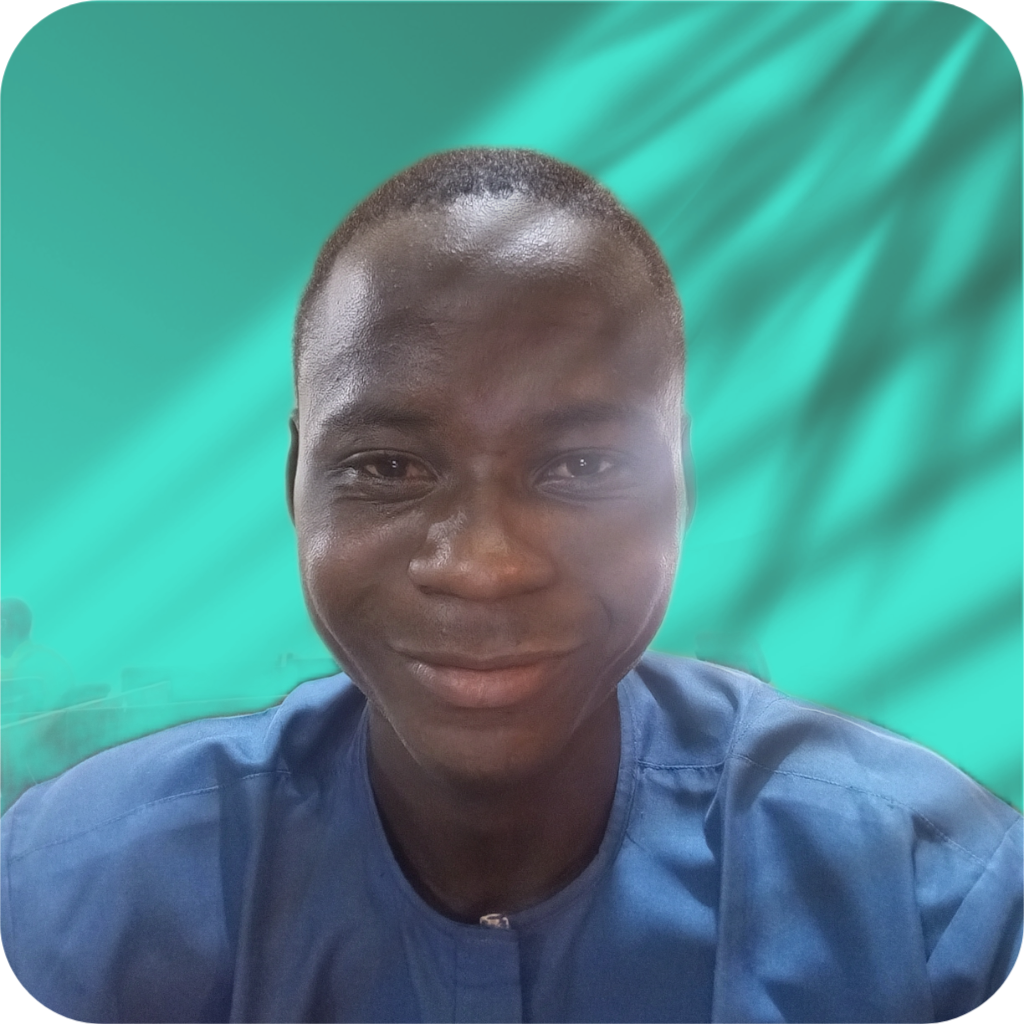
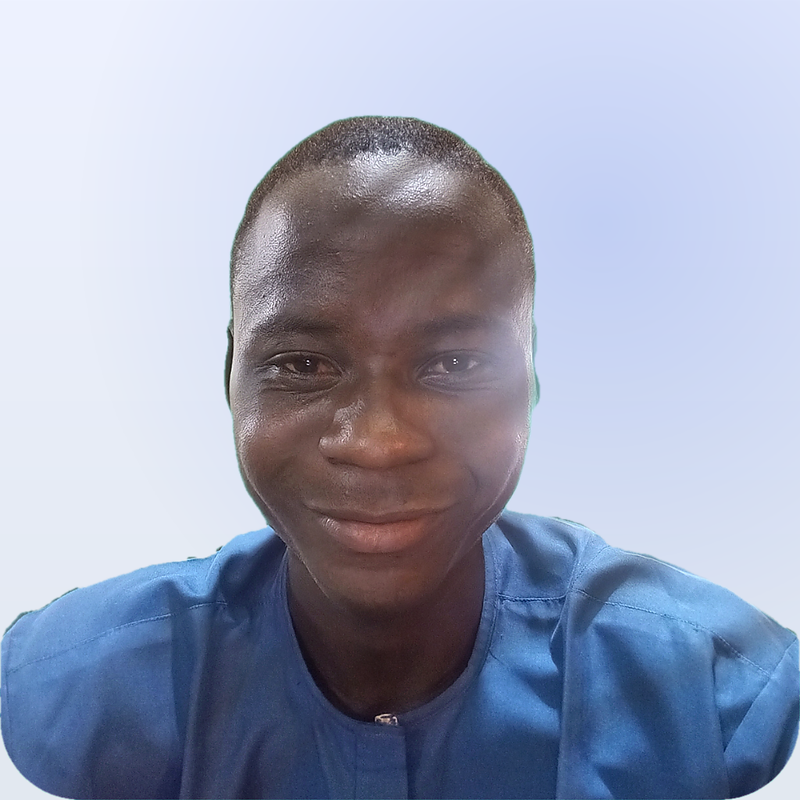
updating propile ficture

diff --git a/src/components/hero-section.tsx b/src/components/hero-section.tsx
@@ -102,16 +102,27 @@ export function HeroSection() {
           className="relative flex min-w-0 justify-center lg:justify-end"
         >
           <div className="relative">
-            <div className="absolute -inset-4 rounded-2xl bg-gradient-to-br from-primary/20 to-ember/20 blur-2xl" />
-            <div className="relative aspect-square w-72 overflow-hidden rounded-2xl border border-border bg-surface shadow-2xl md:w-80 lg:w-96">
-              <img
-                src="/images/profile-pic.png"
-                alt={`${personalInfo.name} professional portrait`}
-                className="h-full w-full min-w-0 object-cover"
-                loading="eager"
-                width={384}
-                height={384}
-              />
+            <div className="absolute -inset-5 rounded-[2rem] bg-gradient-to-br from-primary/25 via-primary/15 to-ember/20 blur-2xl" />
+            <div className="absolute -inset-3 rounded-[2rem] bg-gradient-to-br from-primary/10 to-ember/10 blur-xl" />
+            <div className="relative aspect-square w-72 overflow-hidden rounded-3xl border border-border/60 bg-surface shadow-2xl ring-1 ring-border/50 md:w-80 lg:w-96">
+              <picture>
+                <source
+                  srcSet="/images/profile-pic-400.webp 400w, /images/profile-pic.webp 800w"
+                  sizes="(max-width: 768px) 288px, (max-width: 1024px) 320px, 384px"
+                  type="image/webp"
+                />
+                <img
+                  src="/images/profile-pic.png"
+                  alt={`${personalInfo.name} professional portrait`}
+                  className="h-full w-full min-w-0 object-cover object-[center_18%] scale-[1.02]"
+                  loading="eager"
+                  decoding="async"
+                  width={400}
+                  height={400}
+                />
+              </picture>
+              <div className="pointer-events-none absolute inset-0 rounded-3xl shadow-[inset_0_1px_0_0_rgba(255,255,255,0.6),inset_0_-1px_12px_rgba(29,78,216,0.07)] dark:shadow-[inset_0_1px_0_0_rgba(255,255,255,0.08)]" />
+              <div className="pointer-events-none absolute inset-0 rounded-3xl bg-gradient-to-t from-primary/[0.04] via-transparent to-transparent" />
             </div>
             <div className="absolute -bottom-4 -left-4 rounded-lg border border-border bg-background p-3 shadow-lg md:p-4">
               <div className="font-heading text-2xl font-bold text-foreground">
